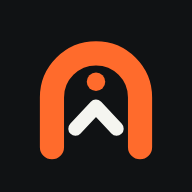
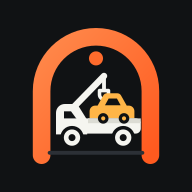
لوكو جديد: سطحة ترفع سيارة تحت قوس سند جايك
Claude-Session: https://claude.ai/code/session_01CPeNF4V8s1L93stN7LNzxx

Changed region(s): [[0.1562, 0.125, 0.8438, 0.875]]

diff --git a/sw.js b/sw.js
@@ -3,7 +3,7 @@
  * - MapLibre والخط: يُخزَّنون أول مرة يُحمَّلون.
  * - بلاطات الخريطة: تُخزَّن للي شفته فقط (بحد أقصى).
  */
-const VERSION = 'sanad-v14';
+const VERSION = 'sanad-v15';
 const SHELL = `${VERSION}-shell`;
 const RUNTIME = `${VERSION}-runtime`;
 const TILES = `${VERSION}-tiles`;
